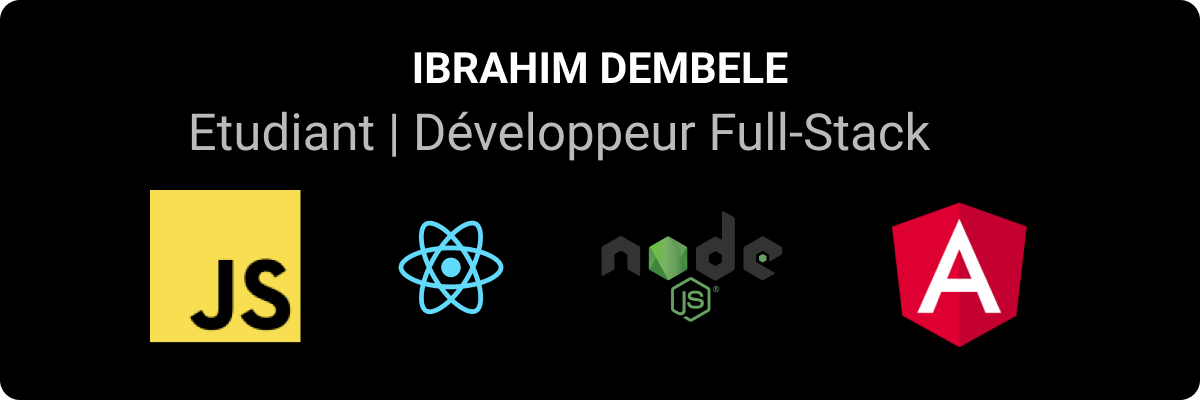
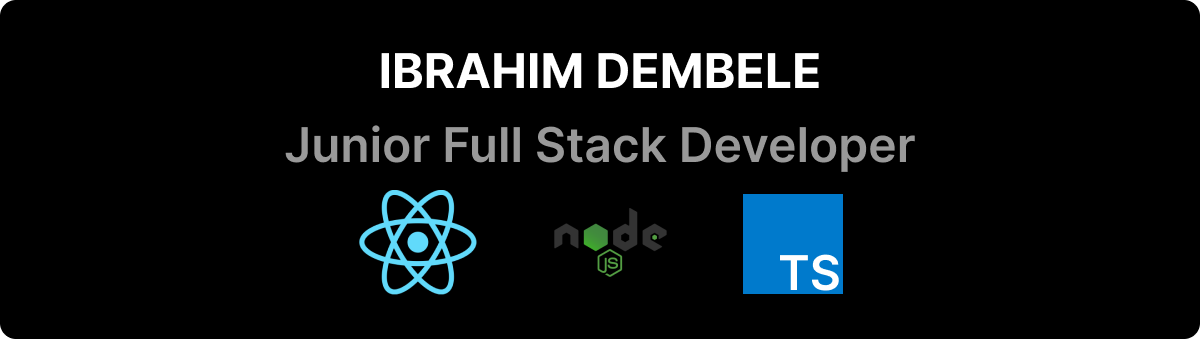
[app] translated in english and added a new header image

diff --git a/README.md b/README.md
@@ -1,41 +1,44 @@
 <img src="https://github.com/idembele70/dembele/blob/main/header.png" alt="ibrahim dembele GitHub README header image">
 
-### 👲🏿 A propos 
-- J'ai effectuer un Stage avec React & Node JS de Juillet à Août 2021.
-- Cherche un contrat d'alternance ASAP.
-- Maitrise HTML, CSS, Javascript, React, Nodejs.
-- Actuellement j'apprends principalement TypeScript et Rxjs.
+### 👲🏿 About
 
-### 📬  Rentrons en contact !
+- I had an internship between July and August 2021 using React and Node.js.
+- Looking for an apprenticeship contract ASAP
+- I'm currently learning advanced CSS animations and I would like to learn how to use Node.js in TypeScript afterwards.
+
+### 📬 contact me !
+
 <a href="https://www.linkedin.com/in/ibrahim-dembele-2a91351b3/">
-  <img align="left" alt="Ibrahim's LinkedIN" width="30px" src="https://raw.githubusercontent.com/peterthehan/peterthehan/master/assets/linkedin.svg" />
+  <img style="margin-right:8px;" align="left" alt="Ibrahim's LinkedIN" width="30px" src="https://raw.githubusercontent.com/peterthehan/peterthehan/master/assets/linkedin.svg" />
 </a>
  📩 : ibrahimk.dembele@outlook.fr
 
 ### Outils et Langages :
 
- <img align="left" alt="Visual Studio Code" width="30px" src="https://raw.githubusercontent.com/github/explore/80688e429a7d4ef2fca1e82350fe8e3517d3494d/topics/visual-studio-code/visual-studio-code.png" />
- <img align="left" alt="HTML5" width="30px" src="https://raw.githubusercontent.com/github/explore/80688e429a7d4ef2fca1e82350fe8e3517d3494d/topics/html/html.png" />
- <img align="left" alt="CSS3" width="30px" src="https://raw.githubusercontent.com/github/explore/80688e429a7d4ef2fca1e82350fe8e3517d3494d/topics/css/css.png" />
- <img align="left" alt="Sass" width="30px" src="https://raw.githubusercontent.com/github/explore/80688e429a7d4ef2fca1e82350fe8e3517d3494d/topics/sass/sass.png" />
- <img align="left" alt="JavaScript" width="30px" src="https://raw.githubusercontent.com/github/explore/80688e429a7d4ef2fca1e82350fe8e3517d3494d/topics/javascript/javascript.png" />
- <img align="left" alt="TypeScript" width="30px" src="https://raw.githubusercontent.com/github/explore/80688e429a7d4ef2fca1e82350fe8e3517d3494d/topics/typescript/typescript.png" />
- <img align="left" alt="Node.js" width="30px" src="https://raw.githubusercontent.com/github/explore/80688e429a7d4ef2fca1e82350fe8e3517d3494d/topics/nodejs/nodejs.png" />
- <img align="left" alt="React" width="30px" src="https://raw.githubusercontent.com/github/explore/80688e429a7d4ef2fca1e82350fe8e3517d3494d/topics/react/react.png" />
-<img align="left" alt="Git" width="30px" src="https://raw.githubusercontent.com/github/explore/80688e429a7d4ef2fca1e82350fe8e3517d3494d/topics/git/git.png" />
-<img align="left" alt="GitHub" width="30px" src="https://raw.githubusercontent.com/github/explore/78df643247d429f6cc873026c0622819ad797942/topics/github/github.png" />
-<img align="left" alt="Terminal" width="30px" src="https://raw.githubusercontent.com/github/explore/80688e429a7d4ef2fca1e82350fe8e3517d3494d/topics/terminal/terminal.png"/>
+ <img align="left" style="margin-right:8px;" alt="Visual Studio Code" width="30px" src="https://raw.githubusercontent.com/github/explore/main/topics/visual-studio-code/visual-studio-code.png" />
+ <img align="left" style="margin-right:8px;" alt="HTML5" width="30px" src="https://raw.githubusercontent.com/github/explore/main/topics/html/html.png" />
+ <img align="left" style="margin-right:8px;" alt="CSS3" width="30px" src="https://raw.githubusercontent.com/github/explore/main/topics/css/css.png" />
+ <img align="left" style="margin-right:8px;" alt="Sass" width="30px" src="https://raw.githubusercontent.com/github/explore/main/topics/sass/sass.png" />
+ <img align="left" style="margin-right:8px;" alt="JavaScript" width="30px" src="https://raw.githubusercontent.com/github/explore/main/topics/javascript/javascript.png" />
+ <img align="left" style="margin-right:8px;" alt="TypeScript" width="30px" src="https://raw.githubusercontent.com/github/explore/main/topics/typescript/typescript.png" />
+ <img align="left" style="margin-right:8px;" alt="Node.js" width="30px" src="https://raw.githubusercontent.com/github/explore/main/topics/nodejs/nodejs.png" />
+ <img align="left" style="margin-right:8px;" alt="React" width="30px" src="https://raw.githubusercontent.com/github/explore/main/topics/react/react.png" />
+<img align="left" style="margin-right:8px;" alt="GitHub" width="30px" src="https://raw.githubusercontent.com/github/explore/78df643247d429f6cc873026c0622819ad797942/topics/github/github.png" />
+<img align="left" style="margin-right:8px;" alt="Terminal" width="30px" src="https://raw.githubusercontent.com/github/explore/main/topics/terminal/terminal.png"/>
+<img align="left" style="margin-right:8px;" alt="Git" width="30px" src="https://raw.githubusercontent.com/github/explore/main/topics/chatgpt-api/chatgpt-api.png" />
+<img align="left" style="margin-right:8px;" alt="Git" width="30px" src="https://raw.githubusercontent.com/github/explore/main/topics/styled-components/styled-components.png" />
 <br/>
 <br/>
 
+### Github Stats
 
-### Stats Github
 <p align="center"><img src="https://github-readme-stats.vercel.app/api?username=idembele70&theme=dark&show_icons=true"/>
 </p>
 
 <br/>
 
-📊 **Cette Semaine j'ai passé mon temps sur:**
+📊 **This week, I spent my time on:**
+
 <!--START_SECTION:waka-->
 
 ```text
@@ -52,7 +55,6 @@ JSON         17 mins         ▒░░░░░░░░░░░░░░░░
 <!--END_SECTION:waka-->
 
 <br/>
-
 
 ![pv](https://pageview.vercel.app/?github_user=idembele70)
 
